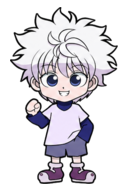
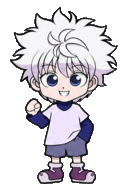
Clean Killua idle blink halo

diff --git a/src/components/AiAssistant.css b/src/components/AiAssistant.css
@@ -42,11 +42,11 @@
 }
 
 .ai-toggle.is-lifted .killua-sprite {
-  filter: drop-shadow(0 14px 13px rgba(0, 0, 0, 0.48));
+  filter: none;
 }
 
 .ai-toggle:focus-visible {
-  outline: 2px solid rgba(0, 209, 255, 0.7);
+  outline: 2px solid rgba(255, 255, 255, 0.7);
   outline-offset: 4px;
 }
 
@@ -93,7 +93,7 @@
   background-repeat: no-repeat;
   background-size: contain;
   background-position: center bottom;
-  filter: drop-shadow(0 6px 8px rgba(0, 0, 0, 0.48));
+  filter: none;
   pointer-events: none;
   transform: translate3d(-50%, 0, 0);
   transform-origin: 50% 82%;
@@ -103,6 +103,7 @@
 
 .killua-sprite-idle {
   background-image: var(--killua-idle-open);
+  animation: killuaIdleHold 3.4s steps(1, end) infinite;
 }
 
 .killua-sprite-blink {
@@ -141,7 +142,7 @@
   bottom: 0;
   width: 96px;
   height: 144px;
-  filter: drop-shadow(0 10px 10px rgba(0, 0, 0, 0.48));
+  filter: none;
 }
 
 .ai-mark.is-dizzy .killua-sprite {
@@ -188,7 +189,7 @@
 
 .ai-mark.is-walking:not(.is-dizzy) .killua-sprite-walk {
   opacity: 1;
-  animation: killuaWalkFrames 1.3s steps(1, end) infinite;
+  animation: killuaWalkFrames 1.9s steps(1, end) infinite;
 }
 
 .ai-mark.is-walking-left .killua-sprite-walk {
@@ -198,6 +199,11 @@
 @keyframes killuaBlink {
   0%, 72.9%, 75.1%, 78.9%, 100% { opacity: 0; }
   73%, 75%, 79%, 81% { opacity: 1; }
+}
+
+@keyframes killuaIdleHold {
+  0%, 72.9%, 75.1%, 78.9%, 100% { opacity: 1; }
+  73%, 75%, 79%, 81% { opacity: 0; }
 }
 
 @keyframes killuaDizzyFrames {

diff --git a/src/components/AiAssistant.tsx b/src/components/AiAssistant.tsx
@@ -28,7 +28,7 @@ const SHAKE_REQUIRED_TRAVEL = 170
 const SHAKE_REQUIRED_SAMPLES = 6
 const DRAG_START_DISTANCE = 6
 const LAUNCHER_GRAVITY = 2200
-const LAUNCHER_WALK_SPEED = 70
+const LAUNCHER_WALK_SPEED = 45
 
 const AssistantMark = ({ compact = false, isDizzy = false, isFloating = false, isWalking = false, walkDirection = 'right' }) => (
   <span
@@ -178,7 +178,7 @@ const AiAssistant = () => {
       return
     }
 
-    const duration = Math.min(6000, Math.max(1800, (Math.abs(startX) / LAUNCHER_WALK_SPEED) * 1000))
+    const duration = Math.min(9000, Math.max(2600, (Math.abs(startX) / LAUNCHER_WALK_SPEED) * 1000))
     const startTime = performance.now()
 
     setWalkDirection(startX > 0 ? 'left' : 'right')
